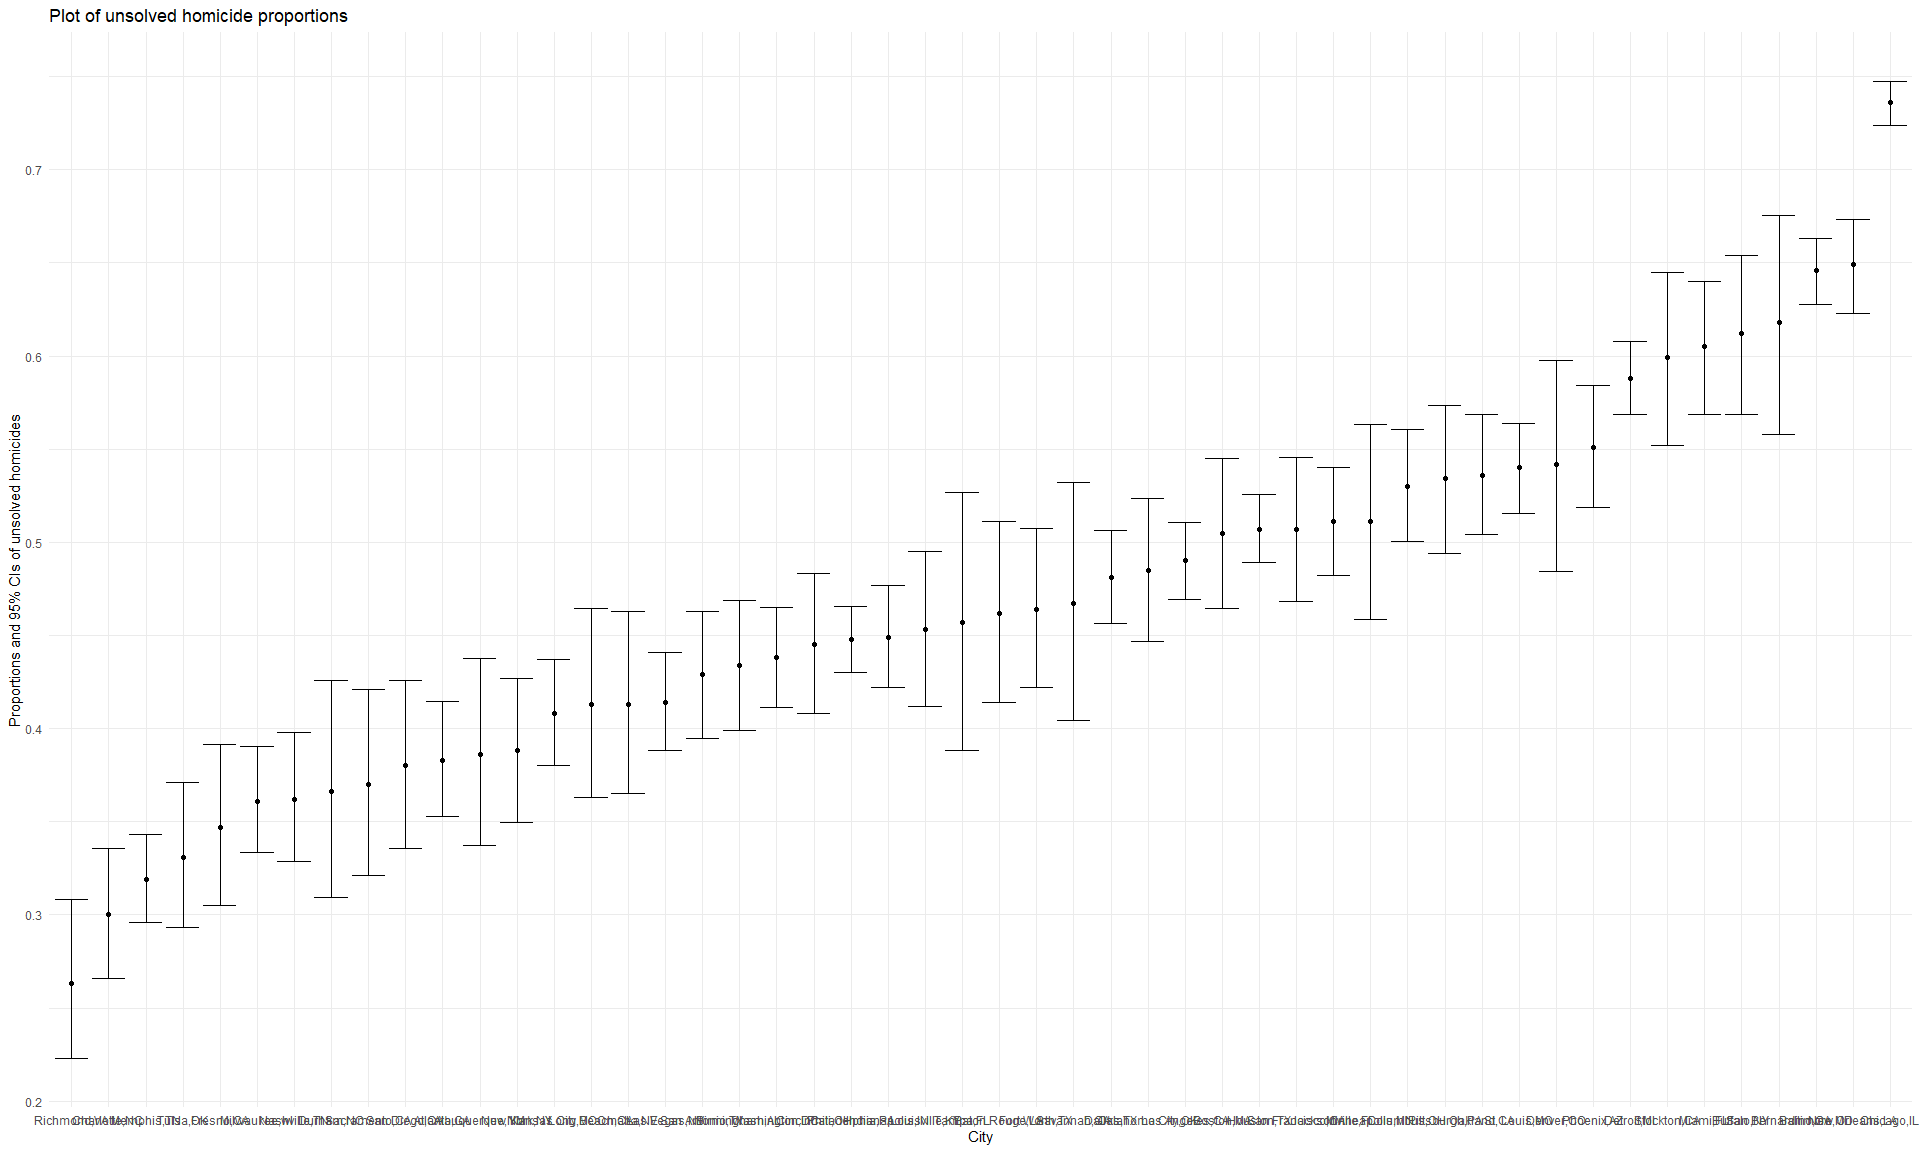
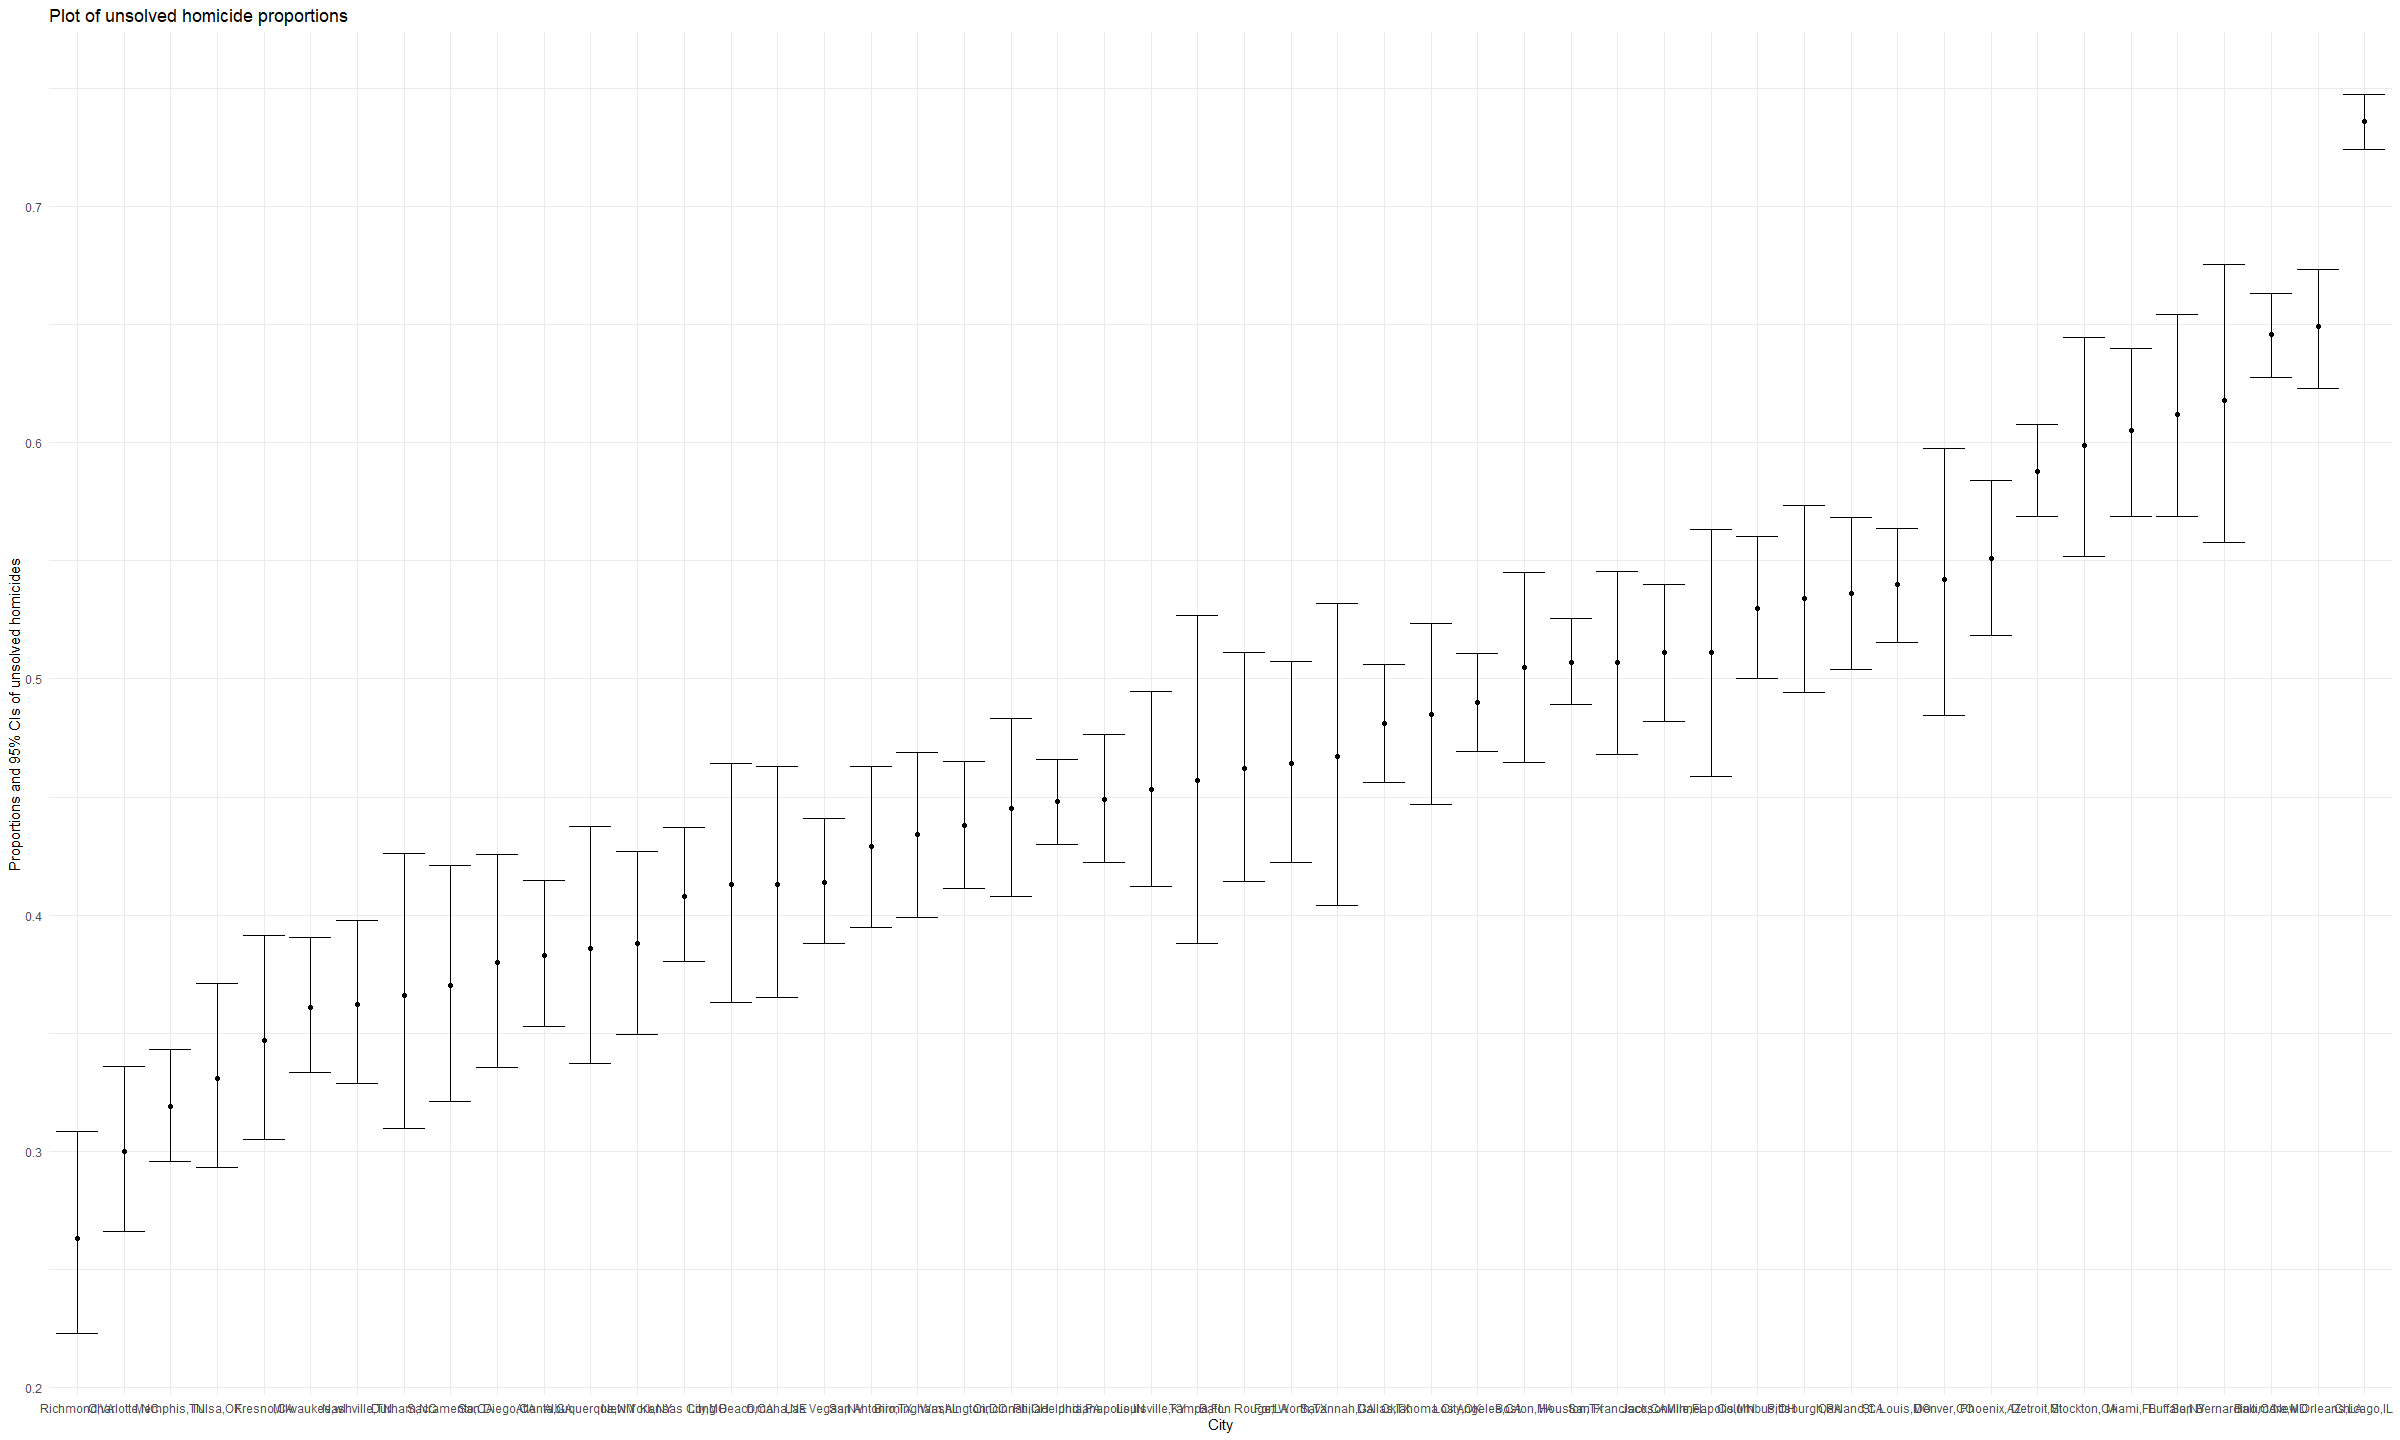
Problem 2: plot size updated

diff --git a/p8105_hw5_ll3407.md b/p8105_hw5_ll3407.md
@@ -116,10 +116,11 @@ homicide_3 =
 
 ``` r
 library("ggplot2")
-  homicide_plot = homicide_3 %>% 
-  mutate(proportion = round(estimate,3))%>% 
-  ggplot(aes(reorder(city_state,proportion), y = proportion)) + geom_point() + geom_errorbar(aes(ymin = conf.low, ymax = conf.high)) +
-  labs(
+  homicide_plot = homicide_3%>%
+  mutate(proportion = round(estimate,3)) %>% 
+  ggplot(aes(reorder(city_state,proportion), y = proportion)) + geom_point() + 
+    geom_errorbar(aes(ymin = conf.low, ymax = conf.high)) +
+    labs(
     title = "Plot of unsolved homicide proportions",
     x = "City",
     y = "Proportions and 95% CIs of unsolved homicides")
